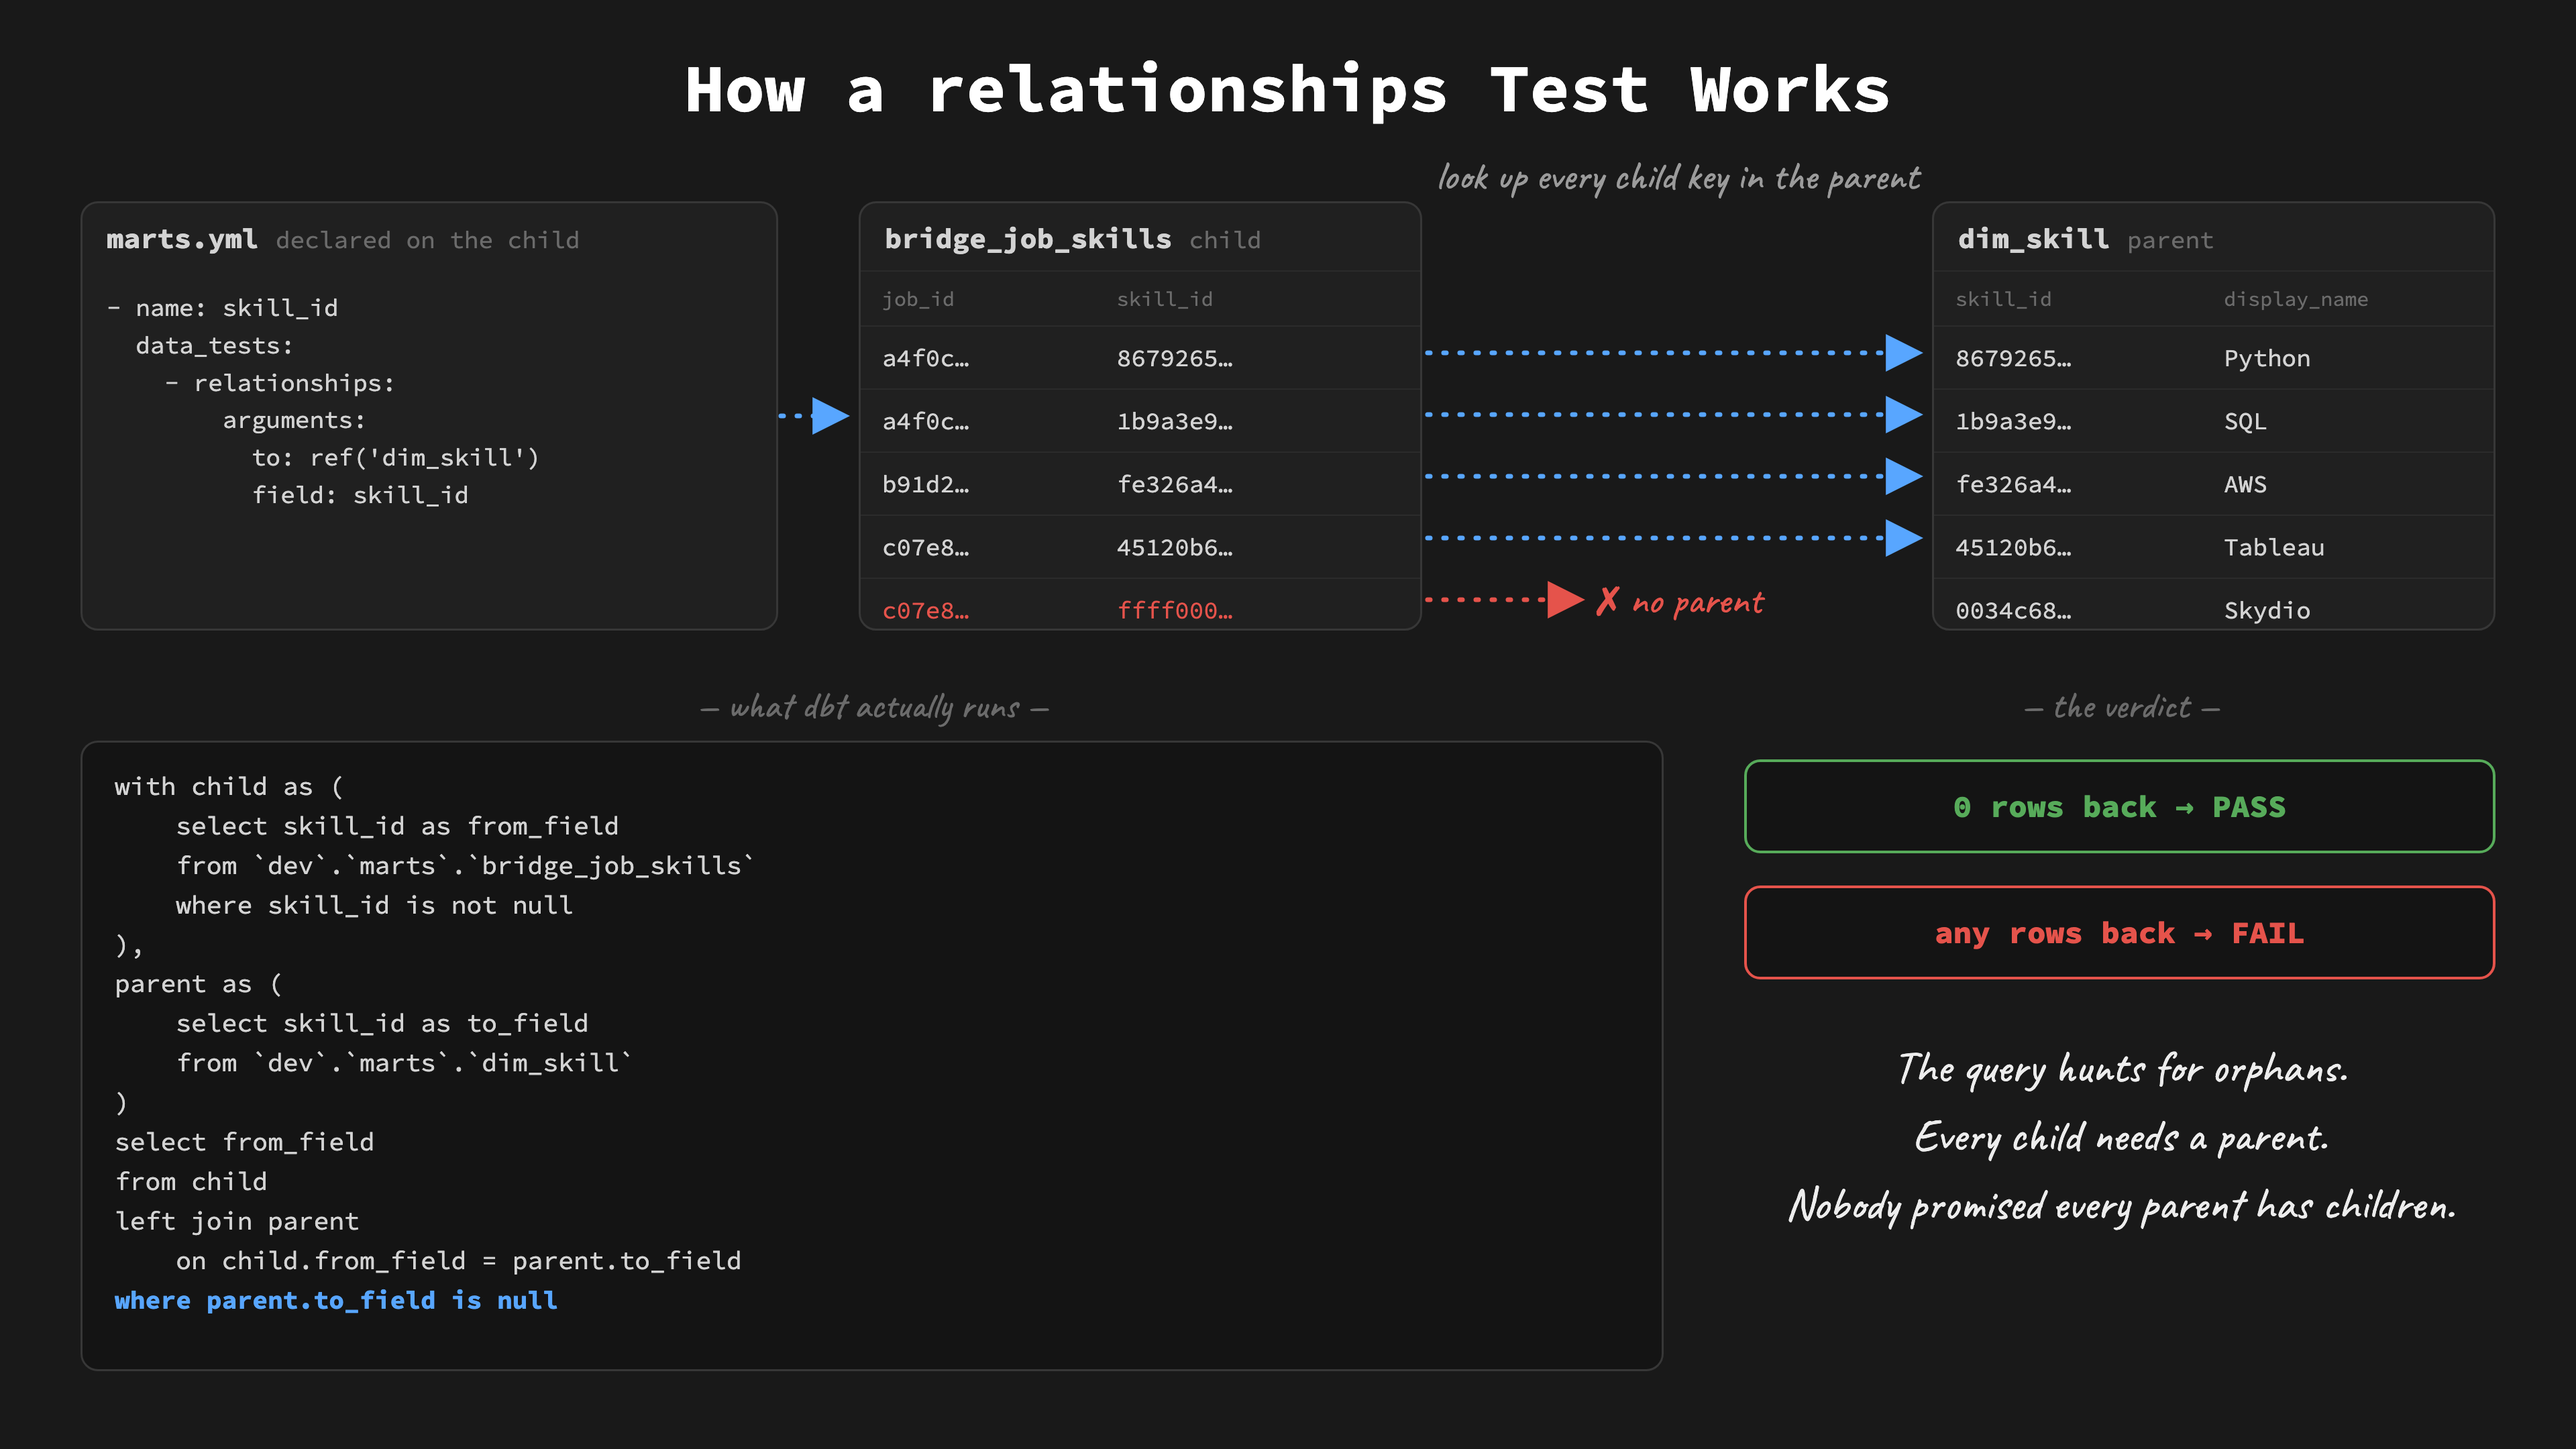
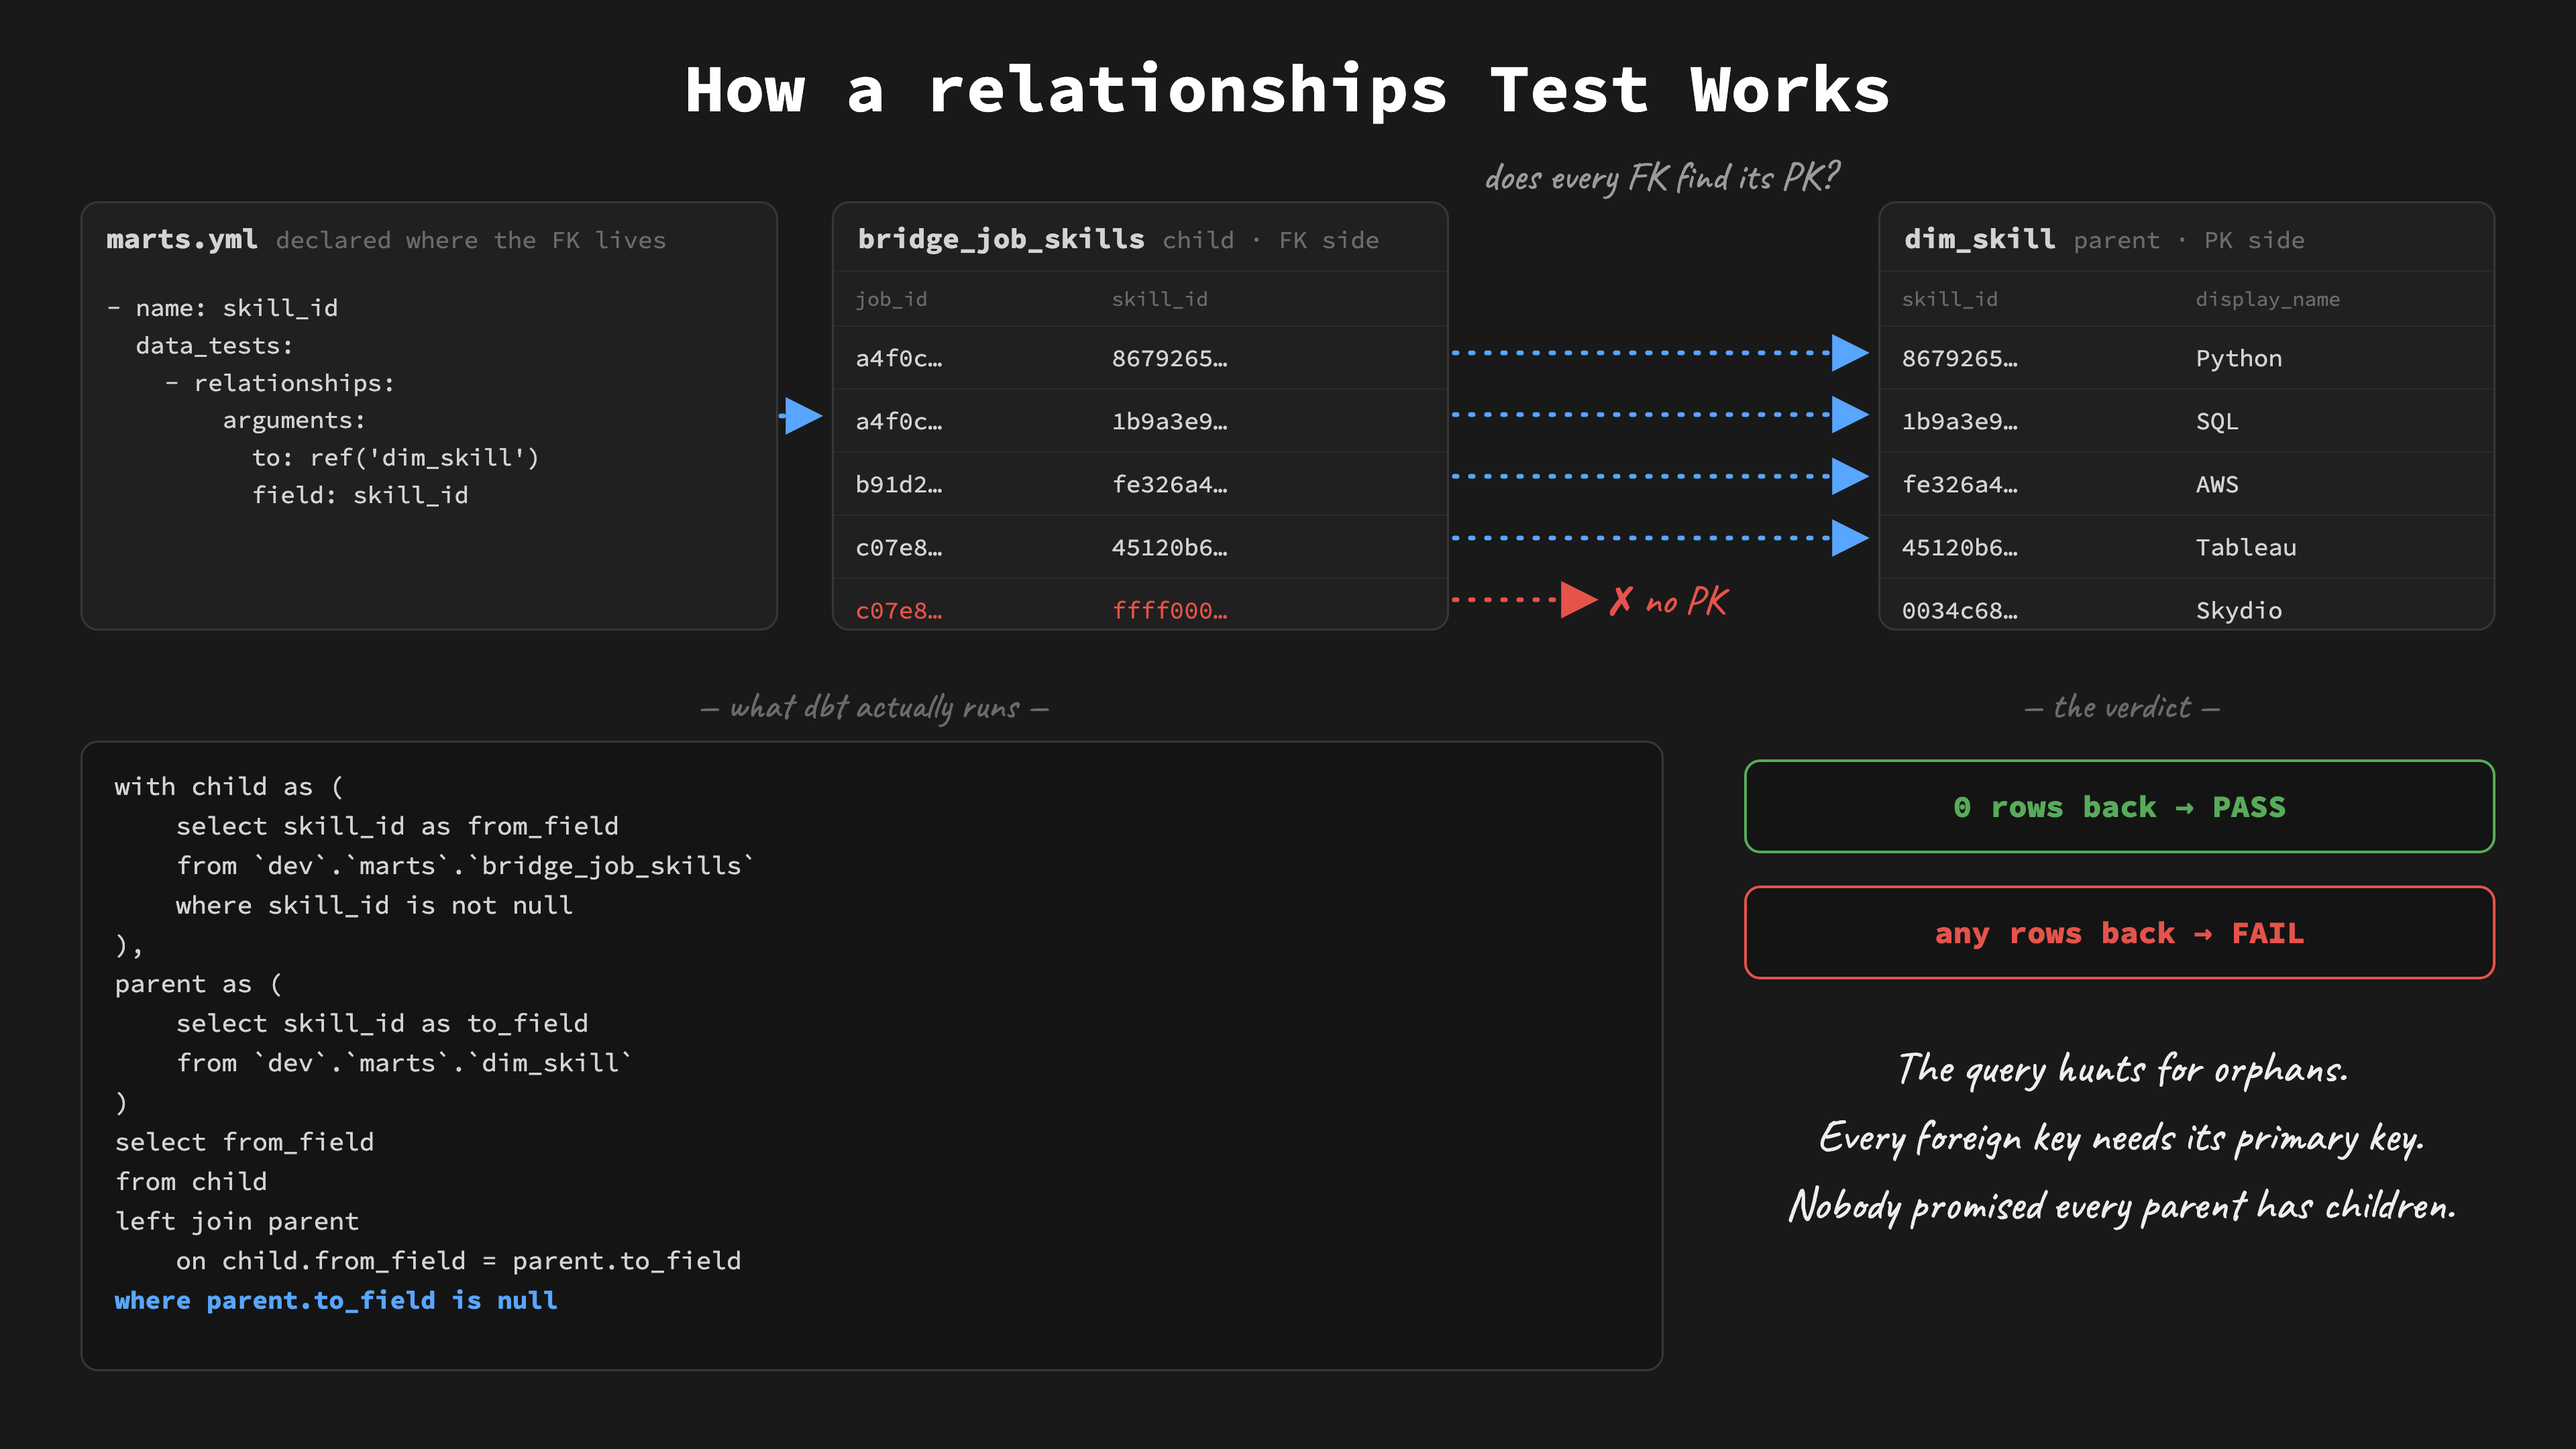
3.09 relationships: FK/PK vocabulary on v1, new 'Why the Direction Matters' diagram
Luke: 'we say child but effectively you write it where the foreign key is,
to test that a foreign key has a primary key?' Yes. v1 now says so:
child = FK side, parent = PK side, 'does every FK find its PK?'.

New diagram answers 'will it always fail in the opposite direction?'
with the project's three real FK lines, run live: flip skills = 462
seeded-never-posted (fail, fine); flip jobs = 65,039 postings with no
skills, 13.2% (fail, fine); flip companies = 0 (passes, only because
dim_company is built from fct). Flipped is a different promise.

diff --git a/resources/diagrams/3.09_relationships_test.html b/resources/diagrams/3.09_relationships_test.html
@@ -34,11 +34,11 @@
 
   <div class="title">How a relationships Test Works</div>
 
-  <div class="hand" style="left:1060px;top:112px;width:380px;font-size:30px">look up every child key in the parent</div>
+  <div class="hand" style="left:1084px;top:112px;width:304px;font-size:30px">does every FK find its PK?</div>
 
   <!-- CHILD -->
-  <div class="card" style="left:640px;top:150px;width:420px;height:320px">
-    <div class="ch">bridge_job_skills <span>child</span></div>
+  <div class="card" style="left:620px;top:150px;width:460px;height:320px">
+    <div class="ch">bridge_job_skills <span>child · FK side</span></div>
     <div class="r hd"><span style="width:170px">job_id</span><span style="width:250px">skill_id</span></div>
     <div class="r" style="color:var(--text)"><span style="width:170px">a4f0c…</span><span style="width:250px">8679265…</span></div>
     <div class="r" style="color:var(--text)"><span style="width:170px">a4f0c…</span><span style="width:250px">1b9a3e9…</span></div>
@@ -48,8 +48,8 @@
   </div>
 
   <!-- PARENT -->
-  <div class="card" style="left:1440px;top:150px;width:420px;height:320px">
-    <div class="ch">dim_skill <span>parent</span></div>
+  <div class="card" style="left:1400px;top:150px;width:460px;height:320px">
+    <div class="ch">dim_skill <span>parent · PK side</span></div>
     <div class="r hd"><span style="width:200px">skill_id</span><span style="width:220px">display_name</span></div>
     <div class="r" style="color:var(--text)"><span style="width:200px">8679265…</span><span style="width:220px">Python</span></div>
     <div class="r" style="color:var(--text)"><span style="width:200px">1b9a3e9…</span><span style="width:220px">SQL</span></div>
@@ -58,11 +58,11 @@
     <div class="r" style="color:var(--text)"><span style="width:200px">0034c68…</span><span style="width:220px">Skydio</span></div>
   </div>
 
-  <div class="hand" style="left:1190px;top:428px;width:230px;font-size:30px;color:var(--err);text-align:left">✗ no parent</div>
+  <div class="hand" style="left:1200px;top:428px;width:200px;font-size:30px;color:var(--err);text-align:left">✗ no PK</div>
 
   <!-- the YAML, small, left -->
   <div class="card" style="left:60px;top:150px;width:520px;height:320px">
-    <div class="ch">marts.yml <span>declared on the child</span></div>
+    <div class="ch">marts.yml <span>declared where the FK lives</span></div>
     <div class="code" style="padding:14px 18px;font-size:18px">- name: skill_id
   data_tests:
     - relationships:
@@ -94,19 +94,19 @@ left join parent
   <div class="hand" style="left:1300px;top:508px;width:560px;font-size:28px;color:var(--faint)">— the verdict —</div>
   <div class="chip" style="left:1300px;top:566px;width:560px;border:2px solid var(--ok);color:var(--ok)">0 rows back  →  PASS</div>
   <div class="chip" style="left:1300px;top:660px;width:560px;border:2px solid var(--err);color:var(--err)">any rows back  →  FAIL</div>
-  <div class="hand" style="left:1300px;top:770px;width:560px;font-size:34px;color:var(--ink);line-height:1.5">The query hunts for orphans.<br>Every child needs a parent.<br>Nobody promised every parent has children.</div>
+  <div class="hand" style="left:1300px;top:770px;width:560px;font-size:34px;color:var(--ink);line-height:1.5">The query hunts for orphans.<br>Every foreign key needs its primary key.<br>Nobody promised every parent has children.</div>
 
   <svg class="art" viewBox="0 0 1920 1080">
     <defs>
       <marker id="ab" viewBox="0 0 10 10" refX="8" refY="5" markerWidth="8" markerHeight="8" orient="auto-start-reverse"><path d="M 0 0 L 10 5 L 0 10 z" fill="#58A6FF"/></marker>
       <marker id="ar" viewBox="0 0 10 10" refX="8" refY="5" markerWidth="8" markerHeight="8" orient="auto-start-reverse"><path d="M 0 0 L 10 5 L 0 10 z" fill="#E5534B"/></marker>
     </defs>
-    <line x1="1064" y1="263" x2="1428" y2="263" stroke="#58A6FF" stroke-width="3.5" stroke-dasharray="2 10" stroke-linecap="round" marker-end="url(#ab)"/>
-    <line x1="1064" y1="309" x2="1428" y2="309" stroke="#58A6FF" stroke-width="3.5" stroke-dasharray="2 10" stroke-linecap="round" marker-end="url(#ab)"/>
-    <line x1="1064" y1="355" x2="1428" y2="355" stroke="#58A6FF" stroke-width="3.5" stroke-dasharray="2 10" stroke-linecap="round" marker-end="url(#ab)"/>
-    <line x1="1064" y1="401" x2="1428" y2="401" stroke="#58A6FF" stroke-width="3.5" stroke-dasharray="2 10" stroke-linecap="round" marker-end="url(#ab)"/>
-    <line x1="1064" y1="447" x2="1176" y2="447" stroke="#E5534B" stroke-width="3.5" stroke-dasharray="2 10" stroke-linecap="round" marker-end="url(#ar)"/>
-    <line x1="582" y1="310" x2="628" y2="310" stroke="#58A6FF" stroke-width="3.5" stroke-dasharray="2 10" stroke-linecap="round" marker-end="url(#ab)"/>
+    <line x1="1084" y1="263" x2="1388" y2="263" stroke="#58A6FF" stroke-width="3.5" stroke-dasharray="2 10" stroke-linecap="round" marker-end="url(#ab)"/>
+    <line x1="1084" y1="309" x2="1388" y2="309" stroke="#58A6FF" stroke-width="3.5" stroke-dasharray="2 10" stroke-linecap="round" marker-end="url(#ab)"/>
+    <line x1="1084" y1="355" x2="1388" y2="355" stroke="#58A6FF" stroke-width="3.5" stroke-dasharray="2 10" stroke-linecap="round" marker-end="url(#ab)"/>
+    <line x1="1084" y1="401" x2="1388" y2="401" stroke="#58A6FF" stroke-width="3.5" stroke-dasharray="2 10" stroke-linecap="round" marker-end="url(#ab)"/>
+    <line x1="1084" y1="447" x2="1186" y2="447" stroke="#E5534B" stroke-width="3.5" stroke-dasharray="2 10" stroke-linecap="round" marker-end="url(#ar)"/>
+    <line x1="582" y1="310" x2="608" y2="310" stroke="#58A6FF" stroke-width="3.5" stroke-dasharray="2 10" stroke-linecap="round" marker-end="url(#ab)"/>
   </svg>
 
 </div>

diff --git a/resources/diagrams/3.09_relationships_direction.html b/resources/diagrams/3.09_relationships_direction.html
@@ -1,0 +1,68 @@
+<!-- @dsCard group="dbt Course Diagrams" -->
+<!doctype html>
+<html>
+<head>
+<meta charset="utf-8">
+<title>Why the Direction Matters</title>
+<style>
+  @import url('https://fonts.googleapis.com/css2?family=Caveat:wght@400;600;700&family=Source+Code+Pro:wght@400;600;700;800&display=swap');
+  :root{
+    --bg:#191919; --panel:#202020; --line:#373737;
+    --text:#D3D3D3; --muted:#9B9B9B; --faint:#6B6B6B;
+    --blue:#58A6FF; --ink:#EDEDED; --ok:#57AB5A; --err:#E5534B;
+    --mono:'Source Code Pro',ui-monospace,'SF Mono',Menlo,Consolas,monospace;
+    --hand:'Caveat',cursive;
+  }
+  html,body{margin:0;padding:0;background:var(--bg)}
+  .stage{position:relative;width:1920px;height:1080px;overflow:hidden;font-family:var(--hand);color:var(--ink);background:var(--bg)}
+  .title{position:absolute;top:34px;left:0;width:1920px;font-family:var(--mono);font-size:50px;font-weight:700;color:#FFFFFF;text-align:center}
+  .colh{position:absolute;top:140px;font-family:var(--mono);font-size:23px;font-weight:700;text-align:center}
+  .pair{position:absolute;font-family:var(--mono);font-size:21px;font-weight:700;color:var(--text);line-height:1.5}
+  .pair .sub{font-weight:400;color:var(--faint);font-size:18px}
+  .chip{position:absolute;box-sizing:border-box;height:62px;width:340px;border-radius:11px;background:#141414;display:flex;align-items:center;justify-content:center;font-family:var(--mono);font-size:22px;font-weight:800}
+  .why{position:absolute;font-family:var(--hand);font-size:29px;color:var(--ink);line-height:1.35}
+  .sep{position:absolute;left:60px;width:1800px;border-top:1.5px dashed #3a3a3a}
+  .rule{position:absolute;left:0;width:1920px;text-align:center;font-family:var(--hand);font-size:34px;color:var(--ink)}
+</style>
+</head>
+<body>
+<div class="stage">
+
+  <div class="title">Why the Direction Matters</div>
+
+  <div class="colh" style="left:660px;width:580px;color:var(--blue)">written where the FK lives  ·  FK → PK</div>
+  <div class="colh" style="left:1280px;width:580px;color:var(--muted)">the same test flipped  ·  PK → FK</div>
+
+  <!-- row 1: skills -->
+  <div class="pair" style="left:60px;top:214px;width:560px">bridge_job_skills.skill_id<br>→ dim_skill.skill_id<br><span class="sub">every skill pair → the taxonomy</span></div>
+  <div class="chip" style="left:660px;top:214px;border:2px solid var(--ok);color:var(--ok)">✓ PASS · 0 orphans</div>
+  <div class="why" style="left:660px;top:292px;width:580px">every skill somebody posted is in the taxonomy</div>
+  <div class="chip" style="left:1280px;top:214px;border:2px solid var(--err);color:var(--err)">✗ FAIL · 462 rows</div>
+  <div class="why" style="left:1280px;top:292px;width:580px">462 seeded skills nobody has posted yet. That is fine.</div>
+
+  <div class="sep" style="top:400px"></div>
+
+  <!-- row 2: jobs -->
+  <div class="pair" style="left:60px;top:434px;width:560px">bridge_job_skills.job_id<br>→ fct_job_postings.job_id<br><span class="sub">every skill pair → a real posting</span></div>
+  <div class="chip" style="left:660px;top:434px;border:2px solid var(--ok);color:var(--ok)">✓ PASS · 0 orphans</div>
+  <div class="why" style="left:660px;top:512px;width:580px">every skill pair points at a posting that exists</div>
+  <div class="chip" style="left:1280px;top:434px;border:2px solid var(--err);color:var(--err)">✗ FAIL · 65,039 rows</div>
+  <div class="why" style="left:1280px;top:512px;width:580px">13.2% of postings list no skills at all. Also fine.</div>
+
+  <div class="sep" style="top:620px"></div>
+
+  <!-- row 3: companies -->
+  <div class="pair" style="left:60px;top:654px;width:560px">fct_job_postings.company_name<br>→ dim_company.company_name<br><span class="sub">every posting → its company</span></div>
+  <div class="chip" style="left:660px;top:654px;border:2px solid var(--ok);color:var(--ok)">✓ PASS · 0 orphans</div>
+  <div class="why" style="left:660px;top:732px;width:580px">every posting's company is in the dim</div>
+  <div class="chip" style="left:1280px;top:654px;border:2px solid var(--ok);color:var(--ok)">✓ PASS · 0 rows</div>
+  <div class="why" style="left:1280px;top:732px;width:580px">passes, but only because dim_company is BUILT from fct</div>
+
+  <div class="sep" style="top:850px"></div>
+
+  <div class="rule" style="top:900px">FK → PK asks: does every child have a parent?</div>
+  <div class="rule" style="top:956px;color:var(--muted)">Flipped, it asks: does every parent have a child? A different promise, and usually one nobody made.</div>
+
+</div>
+</body>
+</html>
